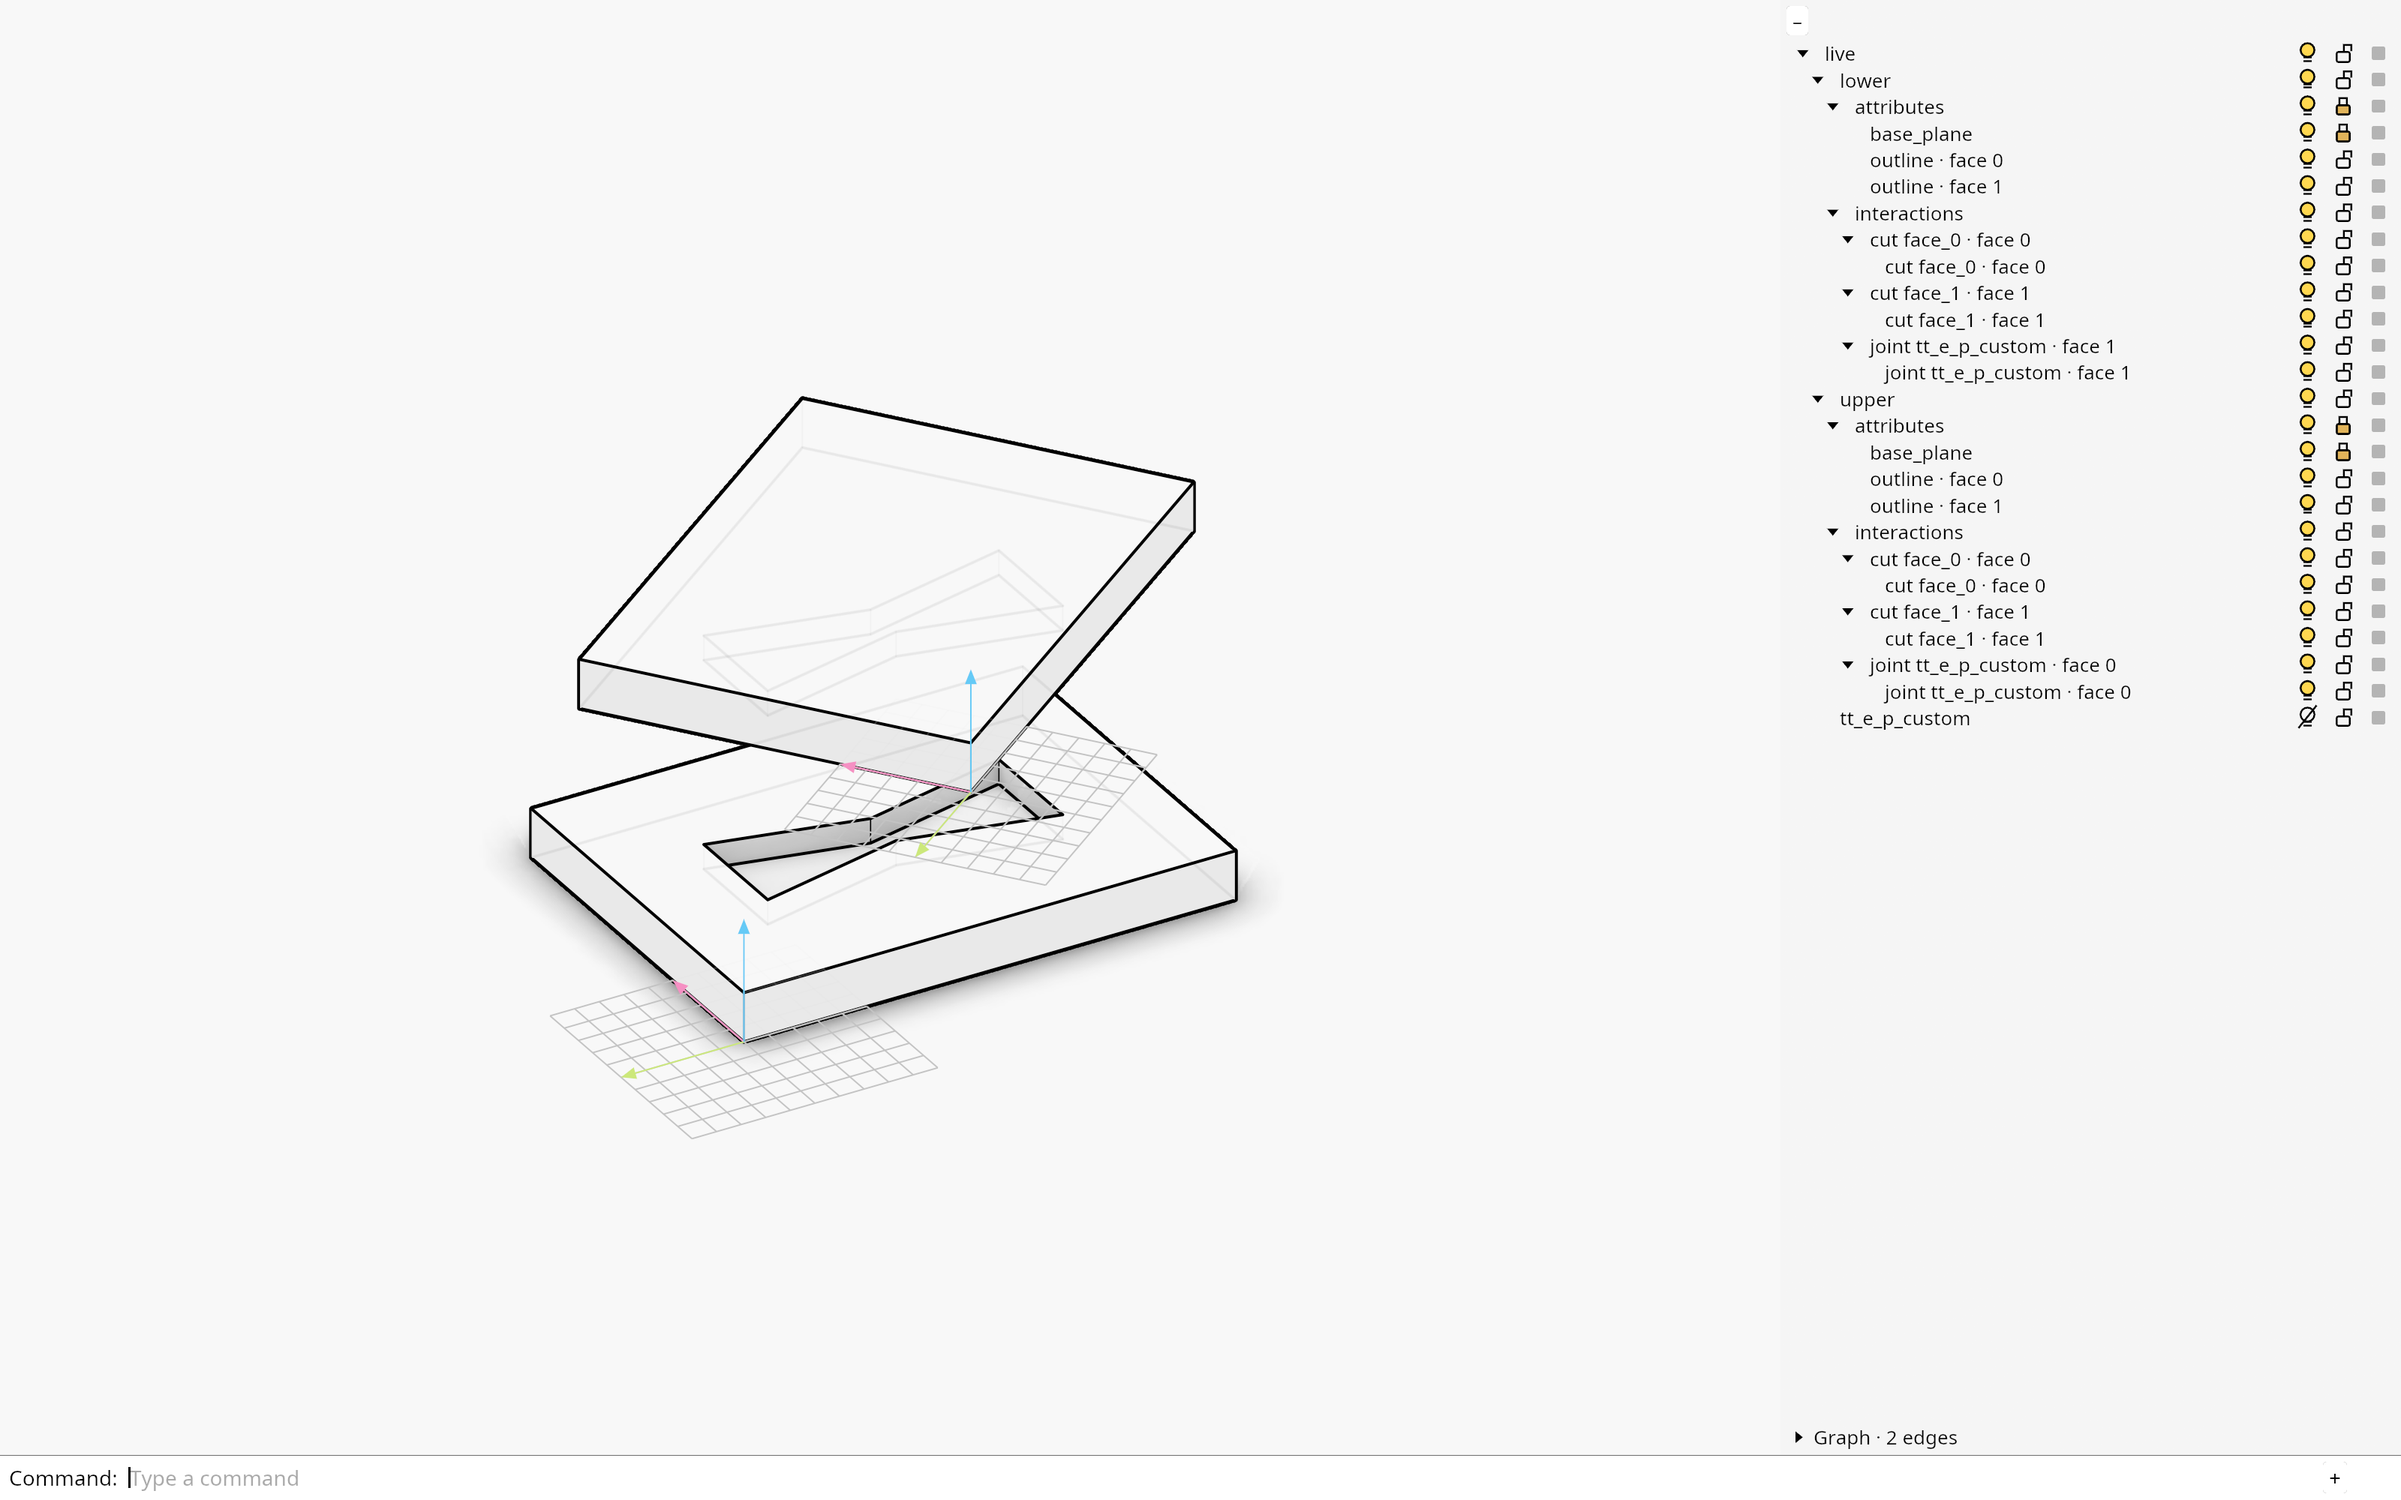
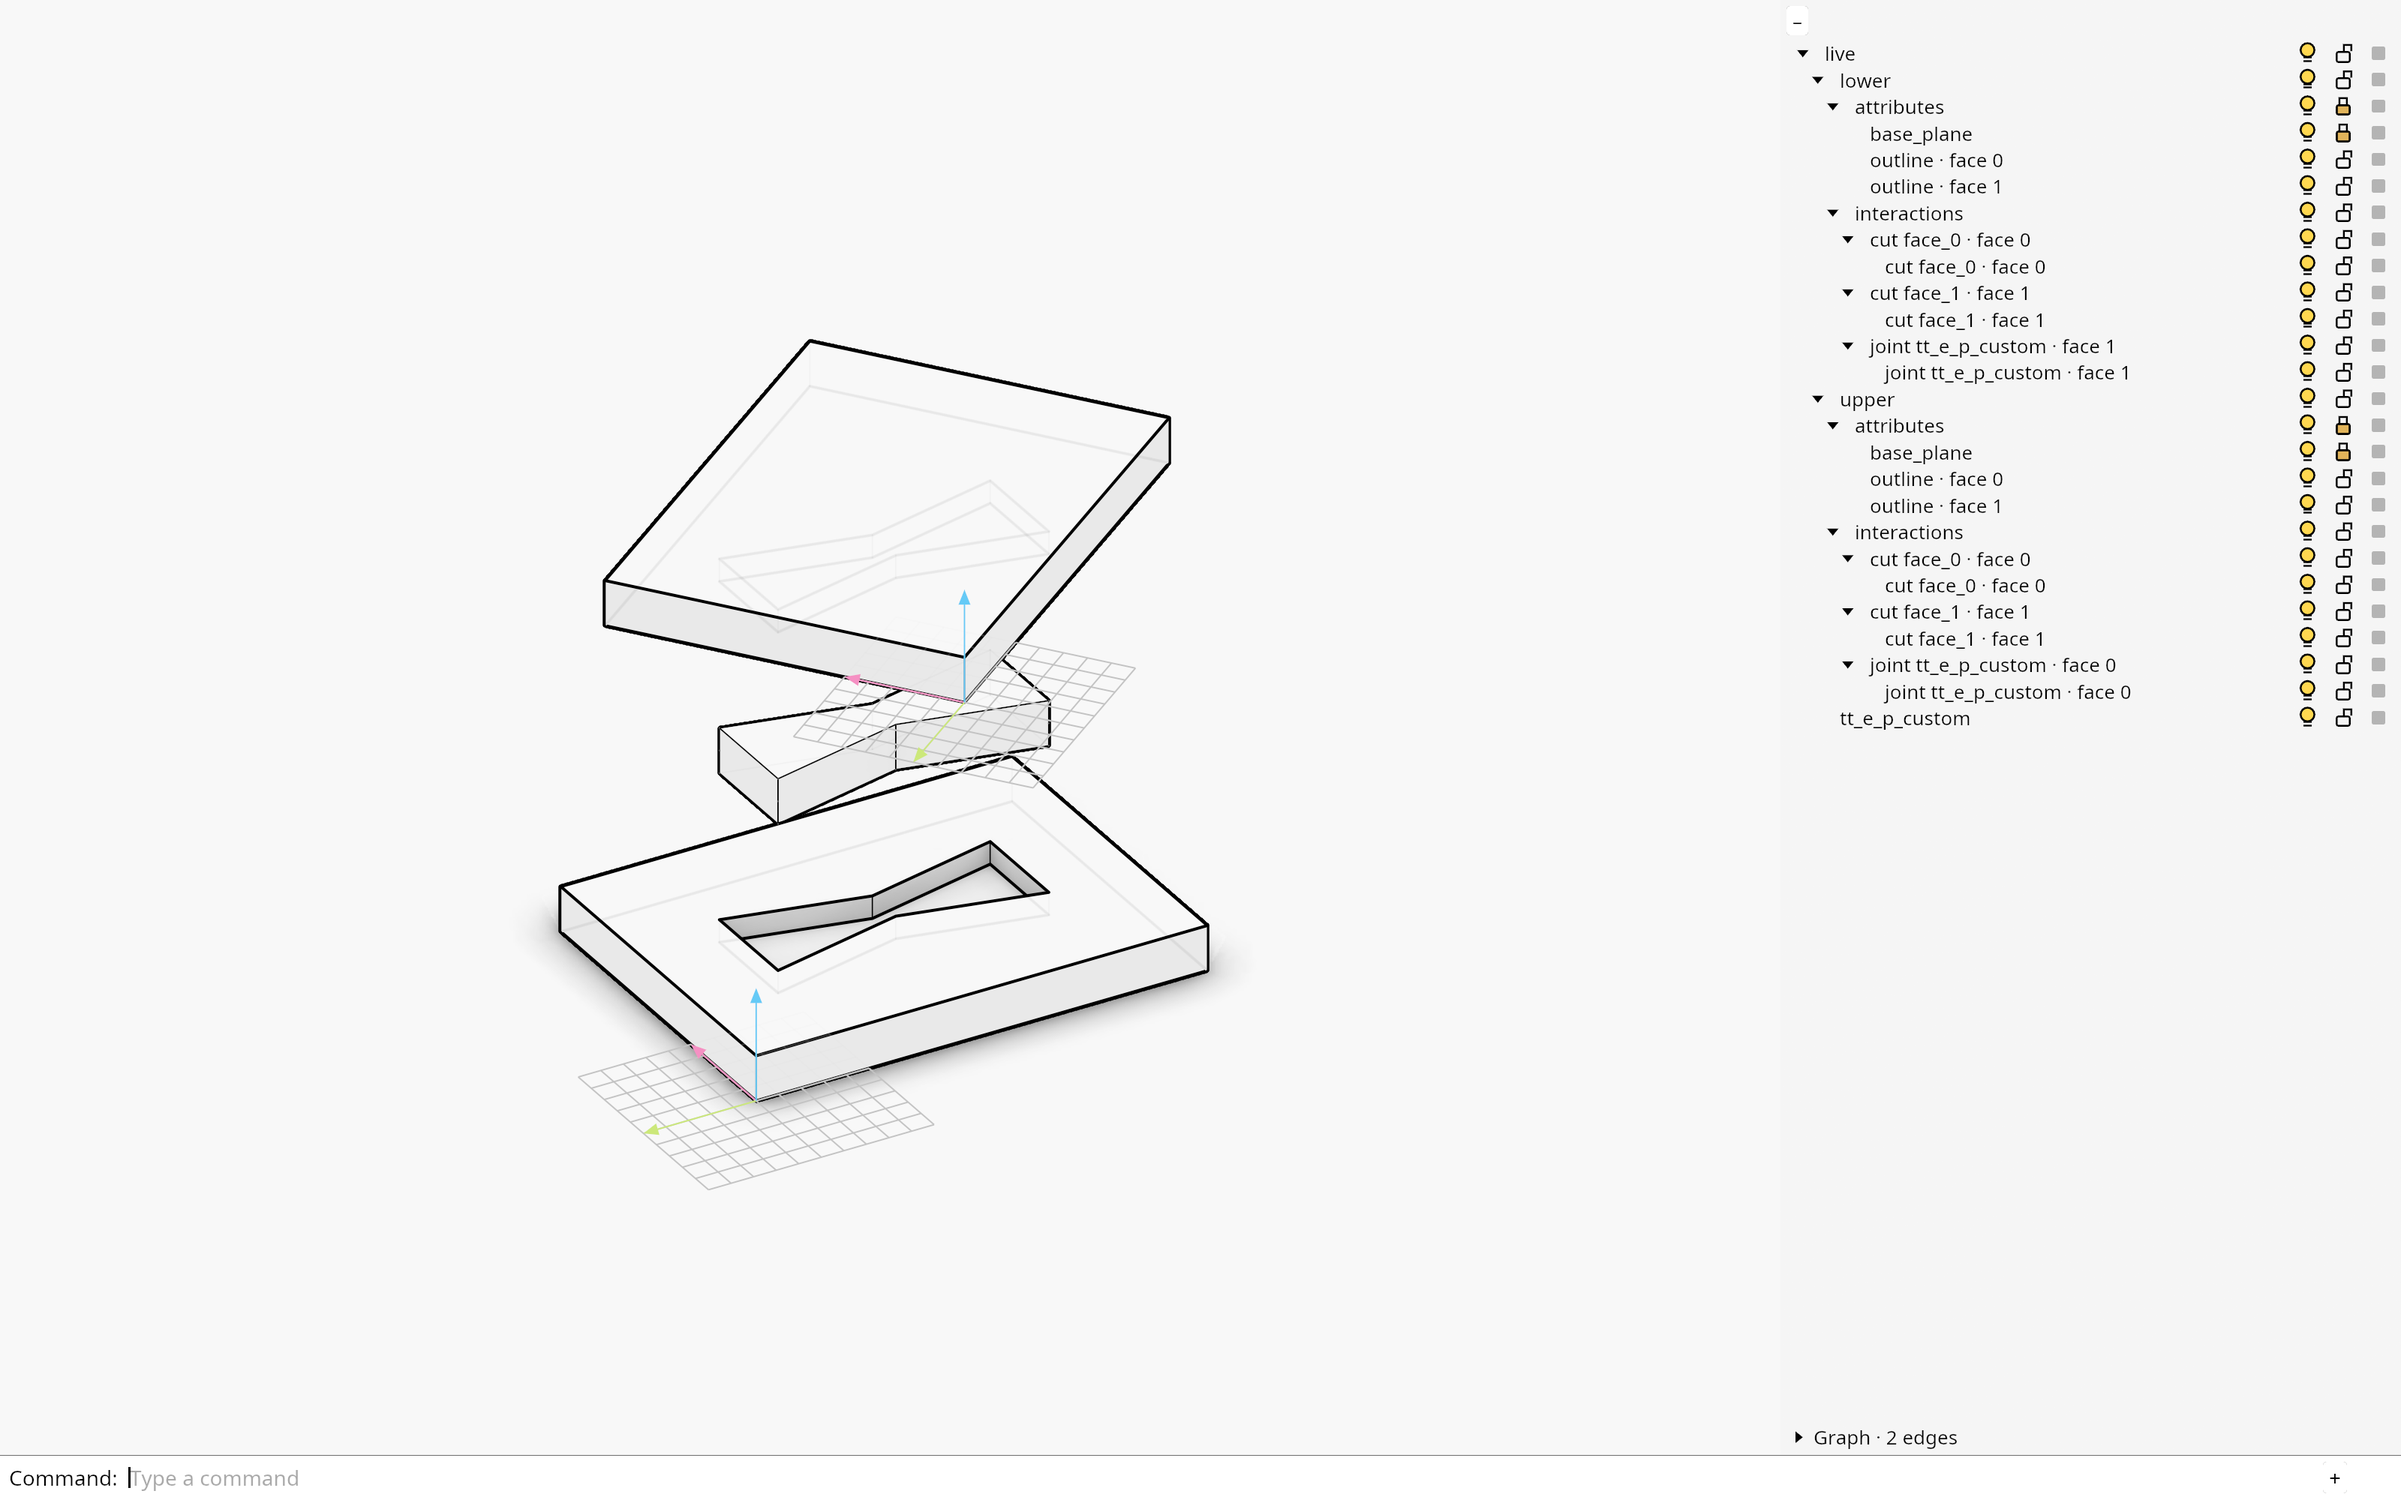
tt_e_p_custom owns its key: both plates' milled pockets united, drawn between the plates

diff --git a/src/joinery_solver/wood_elements/wood_element_joint_plate.cpp b/src/joinery_solver/wood_elements/wood_element_joint_plate.cpp
@@ -1022,7 +1022,7 @@ void JointPlate::compute_key(const std::vector<std::shared_ptr<Plate>>& elements
 
     key = Mesh();
     for (const InteractionFeaturePlate& connection : connections) {
-        if (connection.name != "ss_e_r_2" && connection.name != "ss_e_r_3" && connection.name != "ss_e_ip_3" && connection.name != "ss_e_ip_4")
+        if (connection.name != "ss_e_r_2" && connection.name != "ss_e_r_3" && connection.name != "ss_e_ip_3" && connection.name != "ss_e_ip_4" && connection.name != "tt_e_p_custom")
             continue;
 
         // the pieces the key fills: each side's milled pockets, and the in-plane notches its runs leave along the seam
@@ -1030,8 +1030,9 @@ void JointPlate::compute_key(const std::vector<std::shared_ptr<Plate>>& elements
         for (const std::array<Polyline, 2>& body : bodies())
             pieces.push_back(Mesh::loft({body[0]}, {body[1]}, true));
 
-        // the rotated keys are the straight prisms 2024 milled, both sides' pockets united, not trimmed by the folded plates
-        if (connection.name == "ss_e_r_2" || connection.name == "ss_e_r_3") {
+        // the rotated keys are the straight prisms 2024 milled, both sides' pockets united, not trimmed by the folded plates; a custom
+        // top-top joint's milled pockets make its key the same way, the loose piece hidden between the stacked plates
+        if (connection.name == "ss_e_r_2" || connection.name == "ss_e_r_3" || connection.name == "tt_e_p_custom") {
             for (int side = 0; side < 2; side++)
                 for (const Mesh& piece : side_solids(connection, side))
                     key = key.number_of_faces() == 0 ? piece : solid_boolean(key, piece, SolidOperation::add);

diff --git a/examples/elements/element_joint_plate_tt_e_p_custom.cpp b/examples/elements/element_joint_plate_tt_e_p_custom.cpp
@@ -28,12 +28,14 @@ int main() {
     const std::shared_ptr<InteractionContactFace> contact = scene.compute_face_contact(lower, upper);
     const std::shared_ptr<JointPlate> joint = JointPlate::tt_e_p_custom(male, female);
     joint->orient(contact, {lower, upper});
+    joint->is_visible = true; // the key is the joint's own piece
     scene.add(joint);
     scene.add_interaction(joint, lower, joint->interaction(0));
     scene.add_interaction(joint, upper, joint->interaction(1));
 
-    // drawn apart along the plates' normal, the direction the upper plate drops onto the lower one, so the outlines on both read
-    upper->place(Xform::translation(0.0, 0.0, 150.0));
+    // drawn apart along the plates' normal, the key half way, the direction the upper plate drops onto the lower one, so the outlines on both read
+    upper->place(Xform::translation(0.0, 0.0, 300.0));
+    joint->place(Xform::translation(0.0, 0.0, 150.0));
 
     std::cout << scene << std::endl;
     scene.pb_dump(pb_path("live"));

diff --git a/src/joinery_solver/wood_elements/wood_element_joint_plate.h b/src/joinery_solver/wood_elements/wood_element_joint_plate.h
@@ -300,7 +300,7 @@ public:
     /// The drill lines of one side of a connection, a pair its builder repeats once.
     static std::vector<Line> side_drills(const InteractionFeaturePlate& connection, int side);
 
-    /// The loose key of ss_e_r_2 and ss_e_r_3, both sides' pocket prisms united as 2024 milled them, straight through the fold; of ss_e_ip_3
+    /// The loose key of ss_e_r_2, ss_e_r_3 and tt_e_p_custom, both sides' pocket prisms united as 2024 milled them, straight through the fold; of ss_e_ip_3
     /// and ss_e_ip_4, what each plate loses to its side's solids united with the notches of the in-plane runs; empty for every other design. The
     /// constructors and the solver call it once the connections are built, with the plates they join.
     void compute_key(const std::vector<std::shared_ptr<Plate>>& elements);
